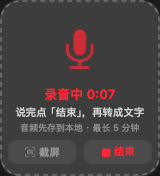
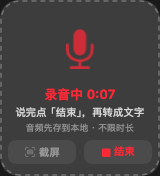
录音不限时长（build 23）
- Memo.maxSeconds 从 300 改为 Double? = nil，计时器里的自动结束加 if let 守卫（恢复上限只改一处）
- 录音提示改为「音频先存到本地 · 不限时长」
- Memo.clock 支持 h:mm:ss，超过 1 小时不再显示成 120:00
- 转写收尾上限 180s → 900s、结果流 30s → 120s，容纳超长录音
- 自检新增 3 条（205 → 208）；浅/深各 21 张界面基线重生成
- 6 分 2 秒测试音频走 --record-test：写入 362.4s、失败 0 次、回读 362.4s、1335 字、覆盖 100%
- 文档与 CHANGELOG 同步；build 22 → 23

Changed region(s): [[0.125, 0.6818, 0.875, 0.767]]

diff --git a/Sources/main.swift b/Sources/main.swift
@@ -956,8 +956,11 @@ enum MemoError: LocalizedError {
 }
 
 enum Memo {
-    /// 单次录音上限（秒）。超时自动结束并转写。
-    static let maxSeconds: Double = 300
+    /// 单次录音上限（秒）。`nil` = 不限时长（1.7.0 build 23 起）。
+    ///
+    /// 保留这个开关而不是删掉判断：将来若要恢复上限只改这里一处，
+    /// 自检也能直接断言 `== nil`，不用去读计时器实现。
+    static let maxSeconds: Double? = nil
 
     /// 没有可用输入设备时的建议文案。
     ///
@@ -981,6 +984,11 @@ enum Memo {
     /// 0:07 / 1:23 这种计时显示
     static func clock(_ t: TimeInterval) -> String {
         let s = max(0, Int(t.rounded(.down)))
+        // 录音不限时长后必须支持小时位：否则 2 小时会显示成 120:00，
+        // 看起来像分钟数溢出。
+        if s >= 3600 {
+            return String(format: "%d:%02d:%02d", s / 3600, (s % 3600) / 60, s % 60)
+        }
         return String(format: "%d:%02d", s / 60, s % 60)
     }
 
@@ -2116,7 +2124,7 @@ final class SpeechRunner {
     /// 导致面板一直卡在「正在转成文字…」。`finish()` 现在为两步都加上超时兜底，
     /// 即便系统转写内核卡死，也会在限时后强制收尾并返回已累计的文本。
     ///
-    /// 超时上限**跟着音频长度走**：实时录音（≤5 分钟）边录边转、积压很少，10 秒够了；
+    /// 超时上限**跟着音频长度走**：短录音积压很少，10 秒够了；
     /// 但「转写音频文件」是把整个文件按最大速度灌进分析器，喂完时分析器里还积压着
     /// 大段未消化的音频（实测 1 小时音频灌入只要十几秒，分析却要几十秒），
     /// 固定 10 秒会把尾巴整段丢掉。
@@ -2128,10 +2136,12 @@ final class SpeechRunner {
         continuation.finish()
 
         let audioSeconds = fedSeconds
-        // 约 30 倍实时（下限 10s，上限 3 分钟）——实测分析吞吐在 90 倍实时左右，留足余量
-        let finalizeLimit = min(max(10.0, audioSeconds / 30.0), 180.0)
+        // 约 30 倍实时（下限 10s）——实测分析吞吐在 90 倍实时左右，留足余量。
+        // 录音不限时长后，上限必须跟着放大：旧版 180s 只够撑到约 4 小时音频，
+        // 现在放到 15 分钟，半天会议也收得回来。
+        let finalizeLimit = min(max(10.0, audioSeconds / 30.0), 900.0)
         // 结果流收尾只需等分析器把最后一批结果吐完，比 finalize 短
-        let drainLimit = min(max(5.0, audioSeconds / 120.0), 30.0)
+        let drainLimit = min(max(5.0, audioSeconds / 120.0), 120.0)
 
         // 收尾期间每 0.5 秒报一次「已经等了多久」。
         // 这段最容易被误判成卡死：实时录音时它通常 1~3 秒，长音频可以到十几秒。
@@ -2897,7 +2907,7 @@ final class MemoSession {
                 //    这里的两次 isStopped 检查不是多余的：用户可能在
                 //    「要权限」的弹窗上就点了取消/结束。若此时还去建文件、
                 //    起引擎，就会留下一个没人管的录音会话——文件一直长，
-                //    5 分钟上限也不会触发（计时器已经停了）。
+                //    而自动结束计时器已经停了，不会有人来收尾。
                 guard !self.isStopped else { return }
                 self.store = try RecordingStore()
                 guard !self.isStopped else {
@@ -3832,7 +3842,7 @@ final class DropView: NSView {
             // 1.3.11 起录音只存不转（转写等录完按文件做），所以这里不显示实时文字，
             // 改为「确认在收音」的两件事：音量呼吸 + 已录时长
             subtitle.stringValue = "说完点「结束」，再转成文字"
-            hintLabel.stringValue = "音频先存到本地 · 最长 5 分钟"
+            hintLabel.stringValue = "音频先存到本地 · 不限时长"
             memoButton.setStyle(title: "结束", symbol: "stop.fill",
                                 tint: .systemRed, tip: "结束录音并转成文字")
             shotButton.setStyle(title: "截屏", symbol: "camera.viewfinder",
@@ -5296,7 +5306,8 @@ final class AppDelegate: NSObject, NSApplicationDelegate, NSMenuDelegate {
             guard let self, self.memoState == .recording else { return }
             let elapsed = self.memoStartedAt.map { Date().timeIntervalSince($0) } ?? 0
             self.dropView.renderMemo(.recording(elapsed, self.lastLevel), partial: self.lastPartial)
-            if elapsed >= Memo.maxSeconds {
+            // 不设上限时只更新计时显示，录音一直继续，直到用户点「结束」
+            if let cap = Memo.maxSeconds, elapsed >= cap {
                 self.endMemo()
             }
         }
@@ -6491,6 +6502,15 @@ enum SelfTest {
             check("半截 JSON 被跳过", PendingStore.all().count == 1, "\(PendingStore.all().count)")
             PendingStore.remove(id: m.id)
             check("归档后能清掉", PendingStore.all().isEmpty)
+
+            // ②.5 录音不限时长（build 23）：上限开关必须为空，且超过 1 小时能正确显示
+            check("录音不设时长上限", Memo.maxSeconds == nil)
+            check("超过 1 小时显示 h:mm:ss",
+                  Memo.clock(3661) == "1:01:01" && Memo.clock(7200) == "2:00:00",
+                  "\(Memo.clock(3661)) / \(Memo.clock(7200))")
+            check("1 小时以内仍是 m:ss",
+                  Memo.clock(59) == "0:59" && Memo.clock(65) == "1:05" && Memo.clock(3599) == "59:59",
+                  "\(Memo.clock(3599))")
 
             // ③ 覆盖率：文字盖住了音频的哪些段落
             if #available(macOS 26.0, *) {

diff --git a/docs/发布说明-1.7.0.html b/docs/发布说明-1.7.0.html
@@ -205,7 +205,7 @@ $ ObsidianDrop --render-preview review/ui-1.7.0     21 张 PNG</code></pre>
 
 归档退出码（A11）  单项成功 0 · 全部失败 1 · 批量部分成功 3（含 succeeded/failed）
 runProcess 超限   12 MiB 假 XLSX → 0.18s 降级 legacy，无挂起、无无界读</code></pre>
-<p class="muted">最终二进制 SHA256 <code>24f2469f5bc42bf081776b28baff5e0d23926f2f2b25013a03b80f9a356cfb06</code>，
+<p class="muted">最终二进制 SHA256 <code>5989534918b66758124845da26881c21d8028af803b244226fc85eae1b4dffcd</code>，
 与 app bundle、dmg 内可执行文件三处一致。浅/深 UI 基线各 21 张均由这份最终二进制重生成并存档；
 深色 21 张已由主代理逐张目检并补写结论，见 <code>review/UI-目检记录-1.7.0.md</code> 的深色章节。</p>
 
@@ -223,6 +223,16 @@ runProcess 超限   12 MiB 假 XLSX → 0.18s 降级 legacy，无挂起、无无
 且菜单栏进程可能仍在跑替换前的旧代码；已把新版装到 <code>/Applications</code>、重启进程并刷新图标登记，安装说明也加了「只保留一份」的提示。
 深色「就绪」徽标对比度偏淡同步修正（文字最亮像素 179 → 224），浅 / 深各 21 张基线用最终二进制重生成。</p>
 
+<h2>5.2 录音不限时长（build 23）</h2>
+<p>原来是「单次 5 分钟、到点自动结束并转写」。现在改成<strong>不设上限</strong>：录音一直继续，只有点「结束」才停。改动落在四处：</p>
+<ul>
+  <li><code>Memo.maxSeconds</code> 从 <code>300</code> 改为 <code>Double?</code> 并置 <code>nil</code>，计时器里的自动结束加 <code>if let</code> 守卫；保留这个开关，将来要恢复上限只改一处。</li>
+  <li>录音提示文案改为「音频先存到本地 · 不限时长」。</li>
+  <li><code>Memo.clock</code> 增加小时位：≥1 小时显示 <code>h:mm:ss</code>，否则 2 小时会显示成 <code>120:00</code>，看着像分位溢出。</li>
+  <li>转写收尾超时按音频长度放宽：finalize 上限 180s → <strong>900s</strong>，结果流 30s → <strong>120s</strong>，否则超长录音的尾巴会被截掉。</li>
+</ul>
+<p>自检新增 3 条断言（不设上限、h:mm:ss、1 小时内仍 m:ss），总数 205 → <strong>208</strong>。录音文件的写入本身是流式的，不受时长影响；1 小时约 115 MB（16 kHz / 16 bit / 单声道），转写成功即删。</p>
+
 <h2>6 已知限制</h2>
 <ul>
   <li>视觉识别需要模型本身支持图片输入；不支持时（如 415）会降级成旧模板，笔记照常入库。</li>
@@ -238,7 +248,7 @@ runProcess 超限   12 MiB 假 XLSX → 0.18s 降级 legacy，无挂起、无无
 
 <footer>
   ObsidianDrop 1.7.0 · 交付说明 · 2026-11-05 · 与 <code>docs/设计-1.7.0.md</code> A/B/C 规格一致<br>
-  安装包 <code>dist/ObsidianDrop-1.7.0.dmg</code>（约 1.5 MB，build 22 新图标）· SHA256 见同目录 <code>.sha256</code> 文件与交付消息<br>
+  安装包 <code>dist/ObsidianDrop-1.7.0.dmg</code>（约 1.5 MB，build 23）· SHA256 见同目录 <code>.sha256</code> 文件与交付消息<br>
   （校验值在打包后才会产生，故不写死在说明页里，避免页内值与安装包自相矛盾）· 源码与验证材料见仓库根目录
 </footer>
 

diff --git a/docs/使用说明.md b/docs/使用说明.md
@@ -180,7 +180,7 @@ tags:
 |---|---|
 | 语音模型 | macOS 26 起的端上模型（`DictationTranscriber`），**首次使用自动下载**，之后秒开 |
 | 识别语言 | 默认中文；改英文：`defaults write com.lw.obsidiandrop memoLocale en-US` |
-| 时长上限 | **录音 5 分钟**，到点自动结束并转写（文件转写不限时长，见下） |
+| 时长上限 | **没有上限**：录音一直继续，直到你点「结束」（build 23 起；文件转写同样不限） |
 | 数据去向 | 全程本机，不上传。录音会**先落盘**到 `~/Library/Application Support/ObsidianDrop/recordings/`，转写成功后自动删除；没转出字时保留，方便重试或在访达里播放确认 |
 | 取消 | 准备阶段点「取消」；录音中点「结束」即转写，没有「丢弃」这一档 |
 | 记录位置 | 跟着当前投递目标走，选项目就写进项目目录 |
@@ -191,7 +191,7 @@ tags:
 
 | 场景 | 上限 | 实际耗时 |
 |---|---|---|
-| 现场录音 | 5 分钟硬上限（`Memo.maxSeconds = 300`，改源码可调） | 边录边转，结束时几秒出字 |
+| 现场录音 | **不限时长**（`Memo.maxSeconds = nil`，想恢复上限改这一处） | 录音只存不转，点「结束」后整段转写 |
 | 转写音频文件 | **无上限** | 10 分钟音频 ≈ 8 秒；1 小时 ≈ 46 秒（约 80 倍实时） |
 
 底层用的是 macOS 26 的 `SpeechAnalyzer`，**没有** `SFSpeechRecognizer` 那种「单次 1 分钟」的限制。长音频的收尾时间会按音频长度自动放宽（下限 10 秒、上限 3 分钟），避免把尾巴丢掉——这一点在 1.3.3 修过（旧版固定 10 秒，1 小时音频会丢尾部）。
@@ -460,7 +460,7 @@ Applications -> /Applications    ← 拖过去即安装
 
 **点「结束」后一直卡在「转写中…」不结束**
 → 早期版本里 `finalizeAndFinishThroughEndOfInput()` 在某些内核状态下会永久挂起，导致面板永远停在「转写中」。**1.3.1 已加超时兜底**：无论系统转写内核是否卡死，`finish()` 都会在限时后强制返回，面板随之退出「转写中」（可能尾部少几个字，但不会无限转圈）。
-→ 这个限时**不是固定 15 秒**：1.3.3 起按音频长度算——录音（≤5 分钟）约 10～15 秒，转写 1 小时的文件最长可等到 3 分钟收尾。等得久不等于卡死，长文件耐心些。
+→ 这个限时**不是固定 15 秒**：1.3.3 起按音频长度算——短录音约 10～15 秒，1 小时音频最长可等到 3 分钟收尾；build 23 把收尾上限放到 15 分钟，容纳「半天会议」这种超长录音。等得久不等于卡死，界面上会一直显示已经等了多久。
 → **1.3.12 起，界面永远停住这件事本身已经修了**：「完成」和「进度」是两条路径投递到主线程的，最后那条进度常晚于完成到达，把面板画回「收尾中」且再无人更新——现在每条回调都带轮次编号，本轮结束之后的一律丢弃。
 → **1.3.13 起再加一层兜底**：只要有一轮在跑，主线程每秒打一次心跳；静默 20 秒记警告、30 秒闪「还在处理」、**150 秒强制把界面恢复成可操作状态**。
 → **1.3.14 起，文字不会再因为界面出问题而丢**：转写完先原子落盘进「待归档队列」，再交付界面。交付失败（会话释放、轮次被顶掉、进程退出都算）时，由看门狗或下次启动补写进笔记，录音也是写成功之后才删。

diff --git a/docs/应用说明.md b/docs/应用说明.md
@@ -152,8 +152,8 @@ tags:
 
 | 入口 | 适用 | 说明 |
 |---|---|---|
-| 浮窗「💡 灵感」 | 现场说话 | 单次上限 **300 秒**，到时自动结束并转写 |
-| 菜单「转写音频文件…」 | 已有音频 | 不受 5 分钟限制；wav / m4a / mp3 / aiff 等 |
+| 浮窗「💡 灵感」 | 现场说话 | **不限时长**，点「结束」才停并转写（build 23 起） |
+| 菜单「转写音频文件…」 | 已有音频 | 同样不限时长；wav / m4a / mp3 / aiff 等 |
 | 菜单「转写剪贴板里的音频」 | 文件面板里被置灰的文件 | 访达 `⌘C` 复制后直接转，绕开系统面板判定 |
 | `--transcribe <音频>` | 脚本/批处理 | `--out` 另存文本，`--target` 直接落笔记 |
 
@@ -385,7 +385,7 @@ obsidian-drop/（仓库根目录）
 
 | 限制 | 影响 | 备注 |
 |---|---|---|
-| 单次录音 300 秒 | 超过自动结束并转写 | 长音频走「转写音频文件」 |
+| 超长录音的收尾要等 | 录音不限时长，转写收尾按音频长度算 | 1 小时约 1 分钟；收尾上限 15 分钟 |
 | 录音期间不显示实时文字 | 只看到音量与计时 | 1.3.11 起为稳定性取舍 |
 | 语音仅 macOS 26+ | 13–25 只能归档与截图 | 依赖系统 `DictationTranscriber` |
 | 仅 arm64、未公证 | Intel 机不可用；首次打开需右键 | — |

diff --git a/CHANGELOG.md b/CHANGELOG.md
@@ -3,6 +3,16 @@
 版本号即 `CFBundleShortVersionString`；括号内为构建号（`CFBundleVersion`）。
 详细设计与验证材料见 `docs/` 与 `review/`。
 
+## 1.7.0（23）· 2026-11-10
+
+**录音不再限 5 分钟。**
+
+- `Memo.maxSeconds` 改为可空开关，`nil` = 不限时长；录音一直继续，直到点「结束」
+- 录音提示改为「音频先存到本地 · 不限时长」
+- 计时超过 1 小时显示 `h:mm:ss`，不再出现 `120:00` 这种分位溢出
+- 转写收尾超时上限 3 分钟 → 15 分钟，结果流 30 秒 → 120 秒，容纳半天会议
+- 自检 205 → 208 项（新增「不设上限」「h:mm:ss」「1 小时内仍 m:ss」）
+
 ## 1.7.0（22）· 2026-11-06
 
 **AI 分场景、下拉面板重做、补上应用图标；交付前按「重新检查」修完 5 个缺陷，并重新设计了 LOGO。**
